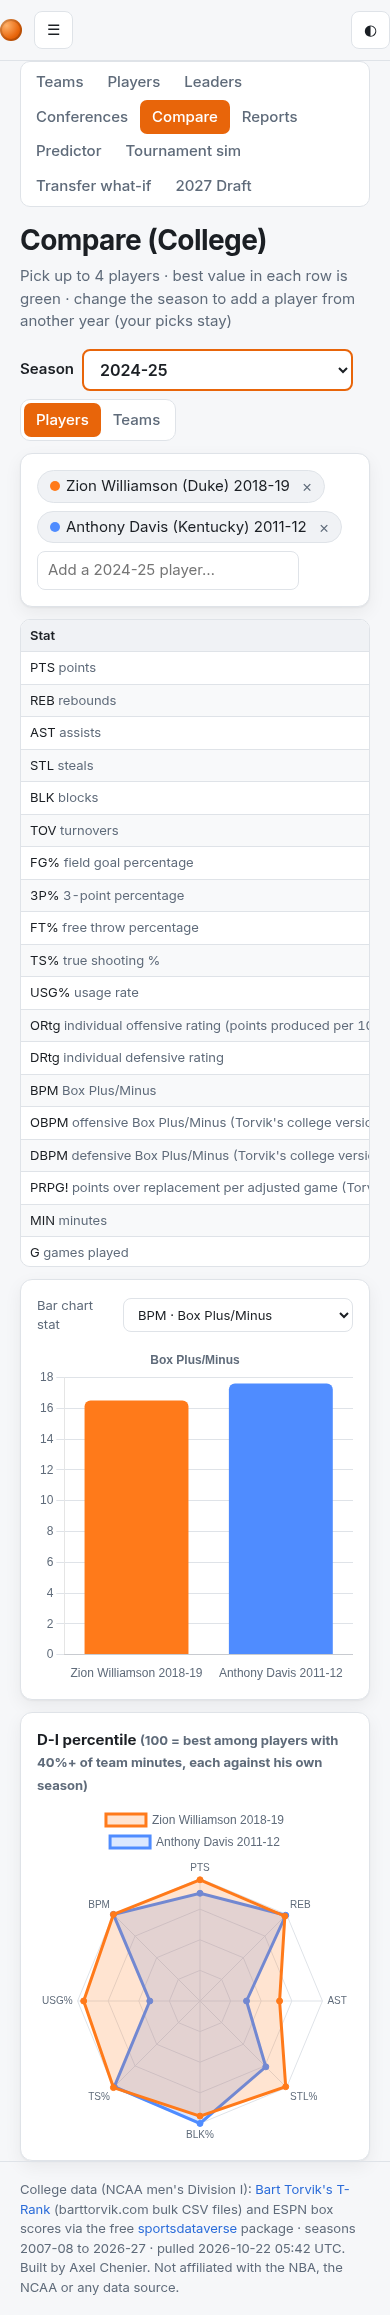
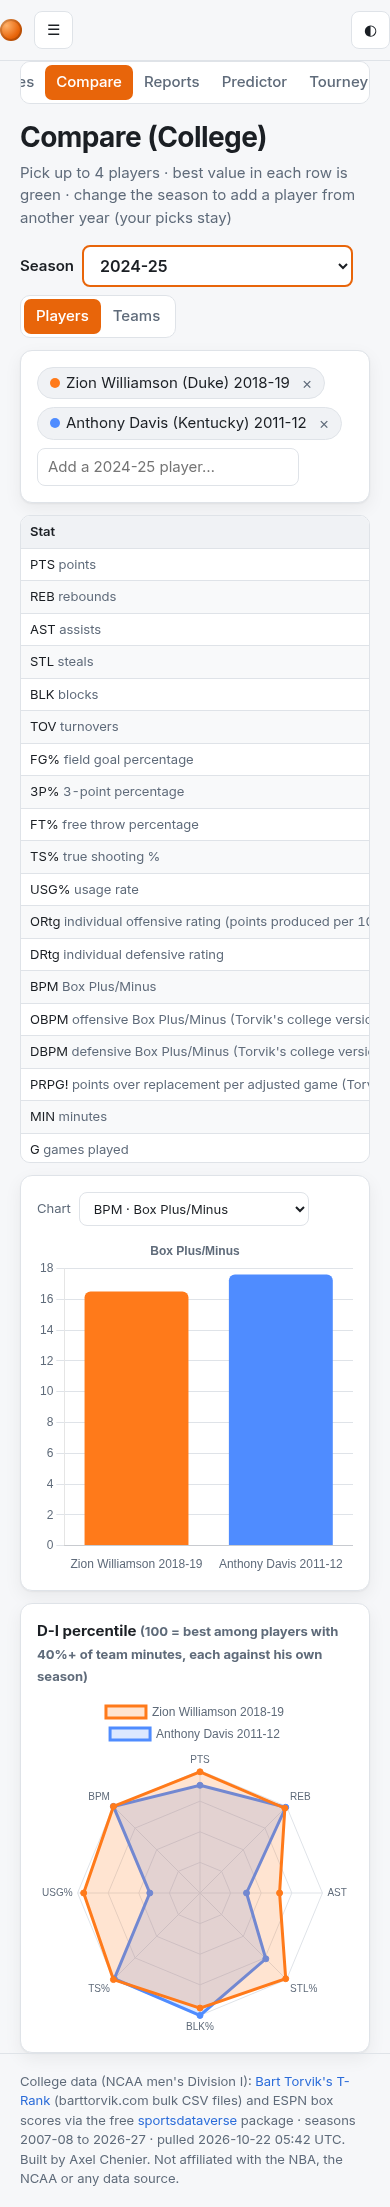
Polish: College and Draft section tabs are one row (shorter labels; scrolls sideways on phones, current tab scrolled into view) instead of wrapping; College Compare chart-stat picker on one line

Changed region(s): [[0.0308, 0.0, 0.9538, 0.6778], [0.0308, 0.6778, 0.8923, 1.0]]

diff --git a/js/pages/college.js b/js/pages/college.js
@@ -22,9 +22,9 @@ export const ccol = (key, extra = {}) => STRING_KEYS.has(key)
 export function collegeNav(active) {
   const items = [["teams", "Teams", "#/college/teams"], ["players", "Players", "#/college/players"], ["leaders", "Leaders", "#/college/leaders"], ["conferences", "Conferences", "#/college/conferences"], ["compare", "Compare", "#/college/compare"],
     ["reports", "Reports", "#/college/reports"], ["predictor", "Predictor", "#/college/predictor"],
-    ["tournament", "Tournament sim", "#/college/tournament"], ["transfer", "Transfer what-if", "#/college/transfer"], ["draft", "2027 Draft", "#/draft"]];
-  return `<div class="tabs" style="margin-bottom:12px;flex-wrap:wrap">${items.map(([k, l, h]) =>
-    `<a class="tab-link ${k === active ? "active" : ""}" href="${h}">${l}</a>`).join("")}</div>`;
+    ["tournament", "Tourney sim", "#/college/tournament"], ["transfer", "Transfer", "#/college/transfer"], ["draft", "2027 Draft", "#/draft"]];
+  return `<nav class="tabs subnav" aria-label="College sections">${items.map(([k, l, h]) =>
+    `<a class="tab-link ${k === active ? "active" : ""}" href="${h}"${k === active ? ' aria-current="page"' : ""}>${l}</a>`).join("")}</nav>`;
 }
 const creditLine = () => `<p class="muted small">College data: ${TORVIK_CREDIT} bulk CSV files (ratings, four factors, player stats incl. BPM) and ESPN box scores
   (turnovers, fouls, starts, home/away records) via the free <code>sportsdataverse</code> package. Pulled ${esc(CMETA.pulled_at_utc)}.

diff --git a/js/pages/college_compare.js b/js/pages/college_compare.js
@@ -66,7 +66,7 @@ export async function collegeComparePage(app, query = "") {
   result.innerHTML = `
     <div class="table-wrap" style="margin-top:12px"><table class="data"><thead>${head}</thead><tbody>${body}</tbody></table></div>
     <div class="charts">
-      <div class="card"><div class="toolbar" style="margin:0 0 8px"><label>Bar chart stat <select id="barstat">${statKeys.map((k) =>
+      <div class="card"><div class="toolbar" style="margin:0 0 8px"><label class="bar-pick">Chart <select id="barstat">${statKeys.map((k) =>
         `<option value="${k}" ${k === (type === "players" ? "BPM" : "ADJEM") ? "selected" : ""}>${esc(STATS[k].label)} · ${esc(STATS[k].name)}</option>`).join("")}</select></label></div>
         <div class="chart-box"><canvas id="bar"></canvas></div></div>
       <div class="card"><h3>D-I percentile <span class="muted small">(100 = best${type === "players" ? " among players with 40%+ of team minutes" : " of D-I teams"}${mixed ? ", each against his own season" : ` in ${season}`})</span></h3>

diff --git a/js/pages/draft_nav.js b/js/pages/draft_nav.js
@@ -3,8 +3,8 @@ export function draftNav(active) {
   const items = [["board", "2027 Model Board", "#/draft"], ["mock", "Mock draft", "#/draft/mock"], ["history", "Draft classes 2008-2026", "#/draft/history"],
     ["translation", "College → NBA", "#/draft/translation"],
     ["college", "College hub", "#/college"]];
-  return `<div class="tabs" style="margin-bottom:12px;flex-wrap:wrap">${items.map(([k, l, h]) =>
-    `<a class="tab-link ${k === active ? "active" : ""}" href="${h}">${l}</a>`).join("")}</div>`;
+  return `<nav class="tabs subnav" aria-label="Draft sections">${items.map(([k, l, h]) =>
+    `<a class="tab-link ${k === active ? "active" : ""}" href="${h}"${k === active ? ' aria-current="page"' : ""}>${l}</a>`).join("")}</nav>`;
 }
 const _cache = new Map();
 export const getJSON = (path) => { if (!_cache.has(path)) _cache.set(path, fetch(path).then((r) => { if (!r.ok) throw new Error(`Could not load ${path}`); return r.json(); })); return _cache.get(path); };

diff --git a/css/style.css b/css/style.css
@@ -421,3 +421,10 @@ table.mock td.small { white-space: nowrap; }
 .series .sw { min-width: 1.2em; text-align: right; }
 .series-games { margin: 6px 0 0; padding-left: 18px; font-size: 12px; }
 @media (max-width: 700px) { .bracket { grid-template-columns: 1fr; } }
+
+/* College sub-nav: one row; scrolls sideways on narrow screens instead of wrapping */
+.tabs.subnav { position: relative; display: flex; flex-wrap: nowrap; overflow-x: auto; max-width: 100%; margin-bottom: 12px; scrollbar-width: thin; width: fit-content; }
+.tabs.subnav .tab-link { white-space: nowrap; flex: 0 0 auto; padding: 6px 11px; }
+/* Compare bar-chart stat picker: label and select stay on one line */
+label.bar-pick { display: flex; align-items: center; gap: 8px; width: 100%; white-space: nowrap; }
+label.bar-pick select { flex: 1 1 auto; min-width: 0; max-width: 100%; }

diff --git a/js/app.js b/js/app.js
@@ -84,6 +84,8 @@ async function render() {
     console.error(err);
     app.innerHTML = `<div class="card"><h3>Something went wrong</h3><p class="muted">${esc(err.message)}</p></div>`;
   }
+  const tab = app.querySelector(".subnav .active");   // narrow screens: scroll the section tab row to the current tab
+  if (tab) tab.parentElement.scrollLeft = Math.max(0, tab.offsetLeft - 24);
   setFooter(hash);                 // footer credits the data sources of this section (NBA / College / Draft)
   window.scrollTo(0, 0);
 }
